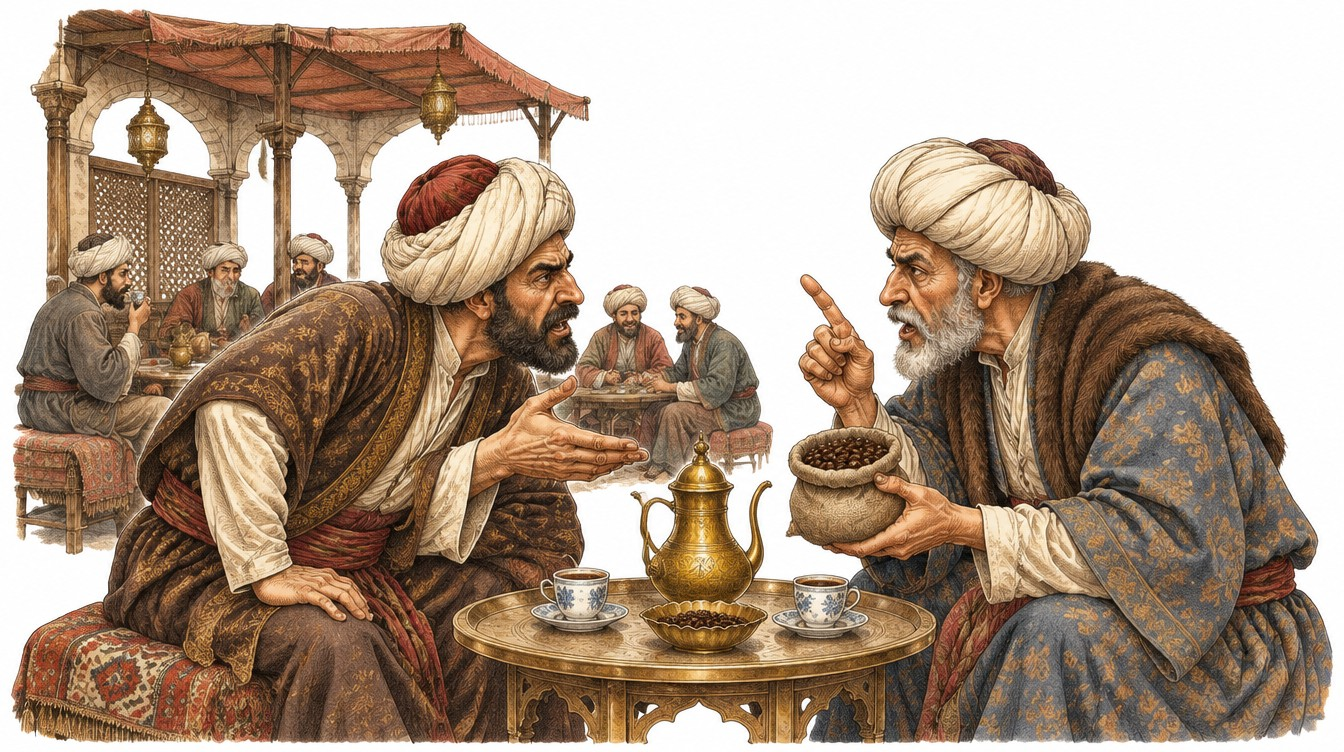
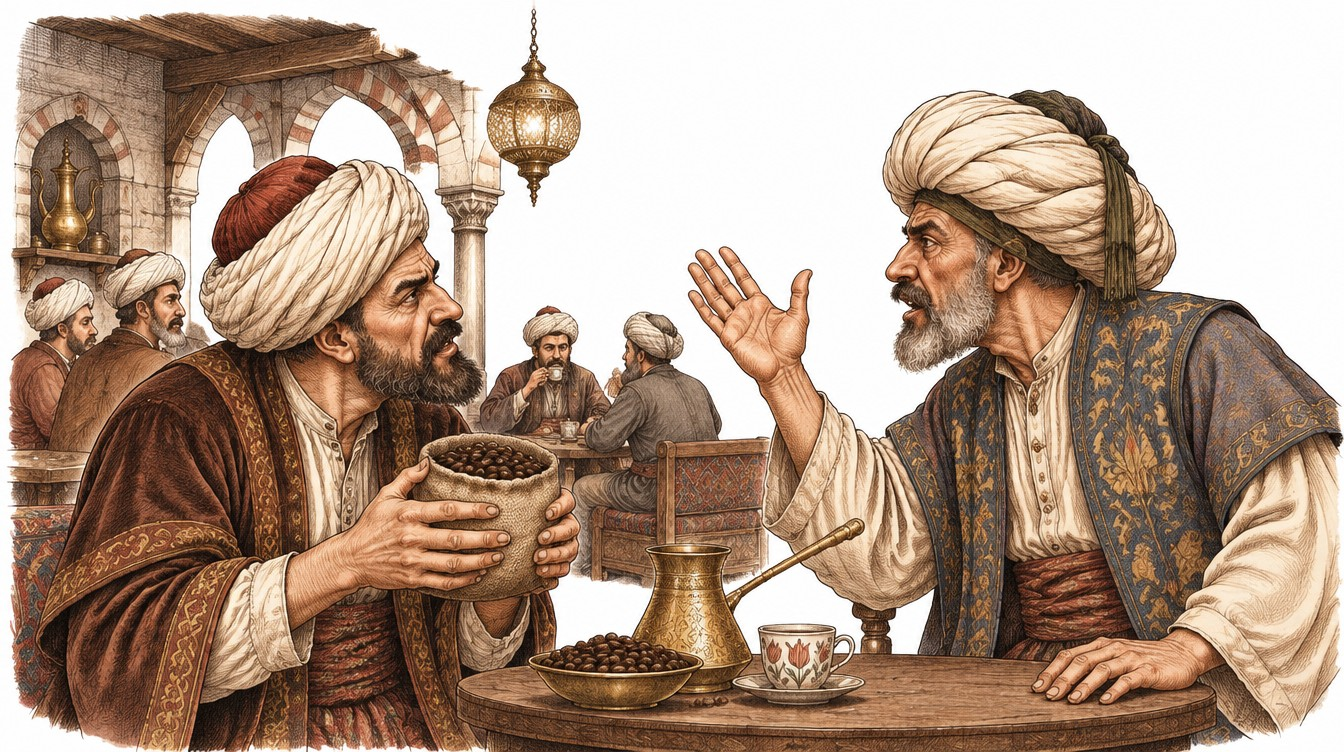
Coffee: regenerate frames 29 and 88 (hand anatomy)
Claude-Session: https://claude.ai/code/session_01TNc2K5SJr878gAAoSdETAS

diff --git a/drinks/coffee/shots.py b/drinks/coffee/shots.py
@@ -33,7 +33,7 @@ SHOTS = [
  (2,2,"a busy 16th-century Ottoman coffeehouse interior, many men sitting on benches along the walls drinking from tiny cups","the coffeehouse"),
  (2,3,"two men in turbans playing chess at a low table with tiny coffee cups, a musician playing an oud in the background, others talking",""),
  (2,4,"in a 16th-century Ottoman coffeehouse, a poet in a turban reading aloud from a paper while men listen with coffee cups",""),
- (2,5,"in a 16th-century Ottoman coffeehouse, two merchants in turbans arguing over prices, gesturing at a small sack of coffee beans",""),
+ (2,5,"in a 16th-century Ottoman coffeehouse, two merchants in turbans arguing over prices, one holds a small sack of coffee beans with both hands, the other raises one hand, anatomically correct hands, each person has exactly two arms",""),
  (2,6,"men in turbans in a 16th-century Ottoman coffeehouse whispering together and glancing nervously at a palace on a hill through the window",""),
  (2,7,"a stern 16th-century official in a turban scowling at a busy 16th-century Ottoman coffeehouse from the street","the problem"),
  (2,8,"a 16th-century governor of Mecca in rich robes and turban pointing angrily, holding a decree","1511 Khair Beg"),
@@ -96,7 +96,7 @@ SHOTS = [
  (6,0,"a single coffee bean drawn dark against a heavy grey sky",""),
  (6,1,"Dutch sailing ships of the 1600s anchored off a tropical island with volcanoes and palm trees","Java"),
  (6,2,"Dutch envoys in 18th-century clothes presenting a small coffee plant in a pot to King Louis XIV of France in a long curly wig at Versailles","1714"),
- (6,3,"an 18th-century French naval officer in a tricorn hat on the deck of a sailing ship, carefully guarding a small coffee seedling inside a little glass case, no flags anywhere","Gabriel de Clieu"),
+ (6,3,"an 18th-century French naval officer in a tricorn hat on the deck of a sailing ship, with both hands resting on a small glass case that protects a coffee seedling in a pot, no flags anywhere, anatomically correct, exactly two hands","Gabriel de Clieu"),
  (6,4,"an 18th-century French naval officer in a tricorn hat on a sailing ship deck pouring water from his own tin cup into the seedling's pot, while a thirsty sailor watches",""),
  (6,5,"an 18th-century French sailing ship arriving at a green Caribbean island with mountains","Martinique"),
  (6,6,"an old map of the Caribbean with dotted lines spreading coffee from Martinique to other islands",""),

diff --git a/drinks/coffee/sheet6.py b/drinks/coffee/sheet6.py
@@ -1,0 +1,7 @@
+# 3x2 sheet at 640x360 per frame for close anatomy check: python3 sheet6.py 1
+import sys; from PIL import Image, ImageDraw
+a=int(sys.argv[1]); W,H=640,360
+S=Image.new("RGB",(W*3,H*2),"white"); d=ImageDraw.Draw(S)
+for k,i in enumerate(range(a,min(a+6,131))):
+    S.paste(Image.open(f"frames/jpg/f{i:02d}.jpg").resize((W,H)),((k%3)*W,(k//3)*H)); d.text(((k%3)*W+4,(k//3)*H+4),str(i),fill="red")
+S.save(f"/tmp/claude-0/-home-user-lookme-viewer/e6a327de-202d-5d69-ad39-e0c29b61606a/scratchpad/s6_{a:03d}.jpg",quality=88)
